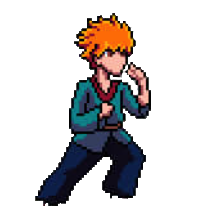
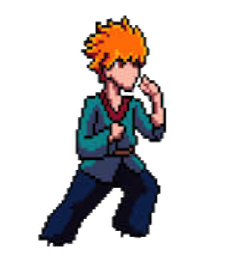
stuff

diff --git a/Objects/Character.py b/Objects/Character.py
@@ -1,4 +1,5 @@
 from GameFrame import RoomObject, Globals
+from Objects.Opponent import Opponent
 from GameFrame.Level import Level
 import pygame
 
@@ -7,23 +8,69 @@ class Character(RoomObject):
     def __init__(self, room, x, y):
         RoomObject.__init__(self, room, x, y)
 
-        image = self.load_image("Stand.png")
-        self.set_image(image,130,180)
-
+        self.stand = self.load_image("Stand.png")
+        self.punching = self.load_image("Punch.png")
+        self.kicking = self.load_image("Kick.png")
+        self.defending = self.load_image("Defense.png")
+        self.set_image(self.stand, 130, 180)
+        self.attack_range = 60
+        self.damage = 25
+        
+        self.is_punching = False
+        self.is_kicking = False
+        self.is_defending = False
         self.handle_key_events = True
 
     def key_pressed(self, key):
-
         if key[pygame.K_a]:
             self.x -= 10
         elif key[pygame.K_d]:
             self.x += 10
+        
+        if key[pygame.K_k]:
+            self.punch()
+            self.set_image(self.punching, 130, 180)
+        elif key[pygame.K_l]:
+            self.kick()
+            self.set_image(self.kicking, 130, 180)
+        elif key[pygame.K_o]:
+            self.defend()
+            self.set_image(self.defending, 130, 180)
+        else:
+            self.set_image(self.stand, 130, 180)
 
     def keep_in_room(self):
         if self.x < 0:
             self.x = 0
-        elif self.x + self.width> Globals.SCREEN_WIDTH:
+        elif self.x + self.width > Globals.SCREEN_WIDTH:
             self.x = Globals.SCREEN_WIDTH - self.width
 
     def step(self):
         self.keep_in_room()
+
+    def punch(self):
+        self.is_punching = True
+        self.check_punch_hit()
+        attack_x_start = self.x + 10 
+        attack_x_end = attack_x_start + self.attack_range
+        for obj in self.room.objects:
+            if hasattr(obj, 'take_damage'): 
+                if self.is_in_attack_range(obj, attack_x_start, attack_x_end):
+                    obj.take_damage(self.damage)
+    
+    def kick(self):
+        self.is_kicking = True
+
+    def defend(self):
+        self.is_defending = True
+
+    def check_punch_hit(self):
+        opponent = self.room.opponent 
+        if opponent is not None: 
+            punch_range = pygame.Rect(self.x + 50, self.y, 30, 30)
+            opponent_rect = pygame.Rect(opponent.x, opponent.y, opponent.width, opponent.height)
+
+
+    def is_in_attack_range(self, opponent, start_x, end_x):
+        return start_x <= opponent.x <= end_x
+

diff --git a/Objects/Hud.py b/Objects/Hud.py
@@ -1,0 +1,40 @@
+from GameFrame import TextObject, Globals, RoomObject
+
+class Score(TextObject):
+    """
+    A class for displaying the current score
+    """
+    def __init__(self, room, x: int, y: int, text=None):
+        """
+        Intialises the score object
+        """         
+        # include attributes and methods from TextObject
+        TextObject.__init__(self, room, x, y, text)
+        
+        # set values         
+        self.size = 60
+        self.font = 'Arial Black'
+        self.colour = (255,255,255)
+        self.bold = False
+        self.update_text()
+
+        def update_score(self, change):
+            Globals.SCORE += change
+            self.text = str(Globals.SCORE)
+            self.update_text()
+
+class Lives(RoomObject):
+    
+    def __init__(self, room, x: int, y: int):
+           
+        RoomObject.__init__(self, room, x, y)
+        
+        self.lives_icon = []
+        for index in range(6):
+            self.lives_icon.append(self.load_image(f"Lives_frames/Lives_{index}.png"))
+        self.update_image()
+        
+        
+    def update_image(self):
+        
+        self.set_image(self.lives_icon[Globals.LIVES], 125, 23)

diff --git a/Rooms/GamePlay.py b/Rooms/GamePlay.py
@@ -1,13 +1,22 @@
-from GameFrame import Level
+from GameFrame import Level, Globals
 from Objects.Character import Character
 from Objects.Opponent import Opponent
+from Objects.Hud import Score, Lives
 
 class GamePlay(Level):
     def __init__(self, screen, joysticks):
         Level.__init__(self, screen, joysticks)
         
-        # set background image
         self.set_background_image("Background.png")
+        self.character = Character(self,550,500)
+        self.add_room_object(self.character)
+        self.opponent = Opponent(self,1080,460)
+        self.add_room_object(self.opponent)
 
-        self.add_room_object(Character(self,550,500))
-        self.add_room_object(Opponent(self, 0, 500))
+        self.score = Score(self, 
+                           Globals.SCREEN_WIDTH/2 - 20, 20, 
+                           str(Globals.SCORE))
+        self.add_room_object(self.score)
+    
+
+    

diff --git a/Objects/Opponent.py b/Objects/Opponent.py
@@ -1,19 +1,23 @@
 from GameFrame import RoomObject
-import random
-
+import math
+import pygame
+        
 class Opponent(RoomObject):
-
     def __init__(self, room, x, y):
         RoomObject.__init__(self, room, x, y)
+        self.health = 50
         
-        self.side = random.choice(["left", "right"])
-        if self.side == "left":
-            self.x = 0 
-            self.x_speed = 10
-            image = self.load_image("Opponent_left.png")
+        image = self.load_image("Opponent_Right.png")
+        self.set_image(image,222,224)
+        self.x_speed = -5
+
+    def step(self):
+        if self.x < self.room.character.x + 60:
+            self.x_speed = 0
         else:
-            self.x = 800  
-            self.x_speed = -10
-            image = self.load_image("Opponent_right.png")
-        
-        
+            self.x_speed = -5
+
+    
+
+
+    

diff --git a/Objects/__init__.py b/Objects/__init__.py
@@ -2,3 +2,4 @@ from Objects.Title import Title
 from Objects.Title import Subtitle
 from Objects.Character import Character
 from Objects.Opponent import Opponent
+from Objects.Hud import Score, Lives
